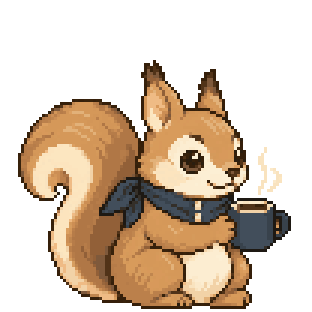
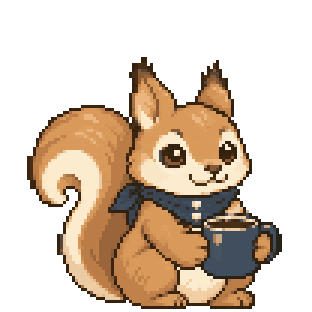
狭い幅・正方形・スマホに対応し、おやすみの日のポーズを作り直し
- 大きさを高さ基準にして、横幅を狭めても全体が縮みすぎないように
- 縦長・正方形では時計の下にキャラを置く縦並びに切り替え
- 吹き出しは文節ごとに折り返し、時計に重ならない幅に
- おやすみの日：こちらへコーヒーを差し出すポーズに差し替え

Changed region(s): [[0.0577, 0.1731, 0.9519, 1.0], [0.4615, 0.8942, 0.4904, 0.9231], [0.4327, 0.8365, 0.4615, 0.8654]]

diff --git a/css/style.css b/css/style.css
@@ -33,17 +33,31 @@ p { margin: 0; }
 
 /* ---------- ウィジェット本体 ---------- */
 
+/* 埋め込み枠そのものの大きさを基準にする */
+body { container-type: size; }
+
+/*
+ * 大きさはすべて --char（キャラの幅）と --time（時刻の文字サイズ）から決める。
+ * 横長：高さを基準にし、幅が足りないときだけ幅で抑える（狭めても全体が縮みすぎない）。
+ * 縦長・正方形：時計の下にキャラを置く縦並び（下の @container）。
+ */
 .widget {
-  container-type: size;
+  --char: min(64cqh, 36cqw, 210px);
+  --time: min(34cqh, calc((100cqw - var(--char) - 100px) / 3.2), 110px);
+  --bubble: clamp(11px, calc(var(--char) * 0.085), 16px);
+  --bubble-long: clamp(9px, calc(var(--char) * 0.07), 13px);
+  --bubble-max: 34cqw;
+  /* 長い吹き出しは、時計に重ならない範囲まで左へ広げる（最低でもキャラの幅） */
+  --bubble-long-max: min(300px, max(calc(var(--char) * 1.2), calc(100cqw - var(--time) * 3.4 - 90px)));
+
   position: relative;
   display: grid;
   grid-template-columns: 1fr auto;
   align-items: center;
-  gap: 0 4cqw;
+  gap: 0 clamp(12px, 4cqw, 40px);
   width: 100%;
   height: 100%;
-  min-height: 160px;
-  padding: 4cqh 6cqw 4cqh 5cqw;
+  padding: 12px clamp(16px, 6cqw, 56px) 12px clamp(12px, 4cqw, 40px);
 }
 
 .clock-area {
@@ -60,7 +74,7 @@ p { margin: 0; }
 }
 
 .status {
-  font-size: clamp(14px, min(3.4cqw, 11cqh), 30px);
+  font-size: max(13px, calc(var(--time) * 0.3));
   font-weight: 600;
   letter-spacing: 0.08em;
   color: var(--navy);
@@ -78,12 +92,12 @@ p { margin: 0; }
 }
 
 .date {
-  font-size: clamp(16px, min(4.2cqw, 14cqh), 36px);
+  font-size: max(14px, calc(var(--time) * 0.38));
   color: var(--taupe);
 }
 
 .time {
-  font-size: clamp(34px, min(11cqw, 38cqh), 96px);
+  font-size: max(30px, var(--time));
   letter-spacing: 0.02em;
 }
 
@@ -97,28 +111,29 @@ p { margin: 0; }
   display: flex;
   flex-direction: column;
   align-items: center;
-  gap: 1cqh;
-  width: clamp(120px, min(28cqw, 76cqh), 220px);
+  width: calc(var(--char) * 1.1);
 }
 
 .message {
   position: relative;
   z-index: 1;
   width: max-content;
-  max-width: 34cqw;
+  max-width: var(--bubble-max);
   margin-bottom: 4px;
   padding: 0.7em 1.2em;
   border: 1.5px solid var(--beige);
   border-radius: 16px;
   background: var(--white);
   box-shadow: 0 2px 0 var(--sand);
-  font-size: clamp(11px, min(2cqw, 6.4cqh), 16px);
+  font-size: var(--bubble);
   font-weight: 500;
   line-height: 1.5;
   letter-spacing: 0.04em;
   text-align: center;
   white-space: pre-line;
 }
+
+.message .phrase { display: inline-block; }
 
 /* 吹き出しのしっぽ（レストくんの頭のほうへ向ける） */
 .message::before,
@@ -143,9 +158,9 @@ p { margin: 0; }
 
 /* 長いメッセージ（おやすみの日）はキャラの幅からはみ出してよい */
 .message.long {
-  max-width: 48cqw;
+  max-width: var(--bubble-long-max);
   padding: 0.6em 1em;
-  font-size: clamp(9px, min(1.6cqw, 5.2cqh), 13px);
+  font-size: var(--bubble-long);
 }
 
 .message.pop { animation: pop .45s ease-out; }
@@ -156,13 +171,12 @@ p { margin: 0; }
 }
 
 .character {
-  width: clamp(90px, min(22cqw, 68cqh), 190px);
+  width: var(--char);
   aspect-ratio: 1 / 1;
   /* 画像の上側は透明な余白なので、吹き出しに少し重ねて間を詰める */
   margin-top: -9%;
 }
 
-.character canvas,
 .character img {
   display: block;
   width: 100%;
@@ -190,9 +204,23 @@ p { margin: 0; }
 .gear svg { width: 18px; height: 18px; }
 .gear:hover, .gear:focus-visible { color: var(--navy); background: var(--sand); outline: none; }
 
-/* 狭い埋め込み（スマホ幅など）では長いメッセージを小さく */
-@container (max-width: 480px) {
-  .message.long { font-size: 10px; }
+/* 縦長・正方形（スマホで直接開いたとき、正方形の埋め込みなど）は縦並び */
+@container (max-aspect-ratio: 8 / 5) and (min-height: 300px) {
+  .widget {
+    --char: min(64cqw, 48cqh, 300px);
+    --time: min(24cqw, 18cqh, 120px);
+    --bubble: clamp(12px, calc(var(--char) * 0.08), 17px);
+    --bubble-long: clamp(11px, calc(var(--char) * 0.065), 15px);
+    --bubble-max: 86cqw;
+    --bubble-long-max: min(88cqw, 360px);
+
+    grid-template-columns: 1fr;
+    grid-template-rows: auto auto;
+    align-content: center;
+    justify-items: center;
+    gap: clamp(12px, 4cqh, 40px);
+    padding: 16px;
+  }
 }
 
 /* ---------- 設定モーダル ---------- */

diff --git a/js/app.js b/js/app.js
@@ -21,14 +21,15 @@
   });
 
   const STATUSES = {
-    prepare: { label: "身支度中", message: "今日もゆっくり始めよう", pose: "お仕事の準備中" },
+    prepare: { label: "身支度中", message: "今日も|ゆっくり始めよう", pose: "お仕事の準備中" },
     work: { label: "お仕事中", message: "がんばるぞ", pose: "PCで作業中" },
     break: { label: "ひと休み", message: "ちょっと休憩", pose: "コーヒーでひと息" },
     lunch: { label: "お昼ご飯", message: "もぐもぐ", pose: "ごはん中" },
-    finish: { label: "お仕事おしまい", message: "今日もいっぱい働いた", pose: "のんびり中" },
+    finish: { label: "お仕事おしまい", message: "今日も|いっぱい働いた", pose: "のんびり中" },
     holiday: {
       label: "おやすみの日",
-      message: "おや、今日もお仕事？お疲れさま！\nでも休憩も大切だから、無理しないでね◎",
+      // 「|」は折り返してよい位置、「\n」は必ず改行する位置
+      message: "おや、|今日もお仕事？|お疲れさま！\nでも休憩も|大切だから、|無理しないでね◎",
       pose: "コーヒーをどうぞ",
     },
   };
@@ -139,14 +140,28 @@
     const info = STATUSES[status];
     el.widget.dataset.status = status;
     el.status.textContent = info.label;
-    el.message.textContent = info.message;
+    renderMessage(info.message);
     // 切り替わったときだけ、ぽんっと出てくる動きをつける
     el.message.classList.remove("pop");
     void el.message.offsetWidth;
     el.message.classList.add("pop");
-    el.message.classList.toggle("long", info.message.length > 20);
+    el.message.classList.toggle("long", info.message.length > 24);
     el.character.setAttribute("aria-label", `レストくん（${info.pose}）`);
     showCharacter(status);
+  }
+
+  // 文節ごとに折り返さない塊にして、「お疲れさ／ま！」のような変な位置での改行を防ぐ
+  function renderMessage(text) {
+    el.message.replaceChildren();
+    text.split("\n").forEach((line, i) => {
+      if (i > 0) el.message.appendChild(document.createElement("br"));
+      line.split("|").forEach((phrase) => {
+        const span = document.createElement("span");
+        span.className = "phrase";
+        span.textContent = phrase;
+        el.message.appendChild(span);
+      });
+    });
   }
 
   // 次の秒の頭に合わせて更新する（setInterval だと少しずつずれるため）
